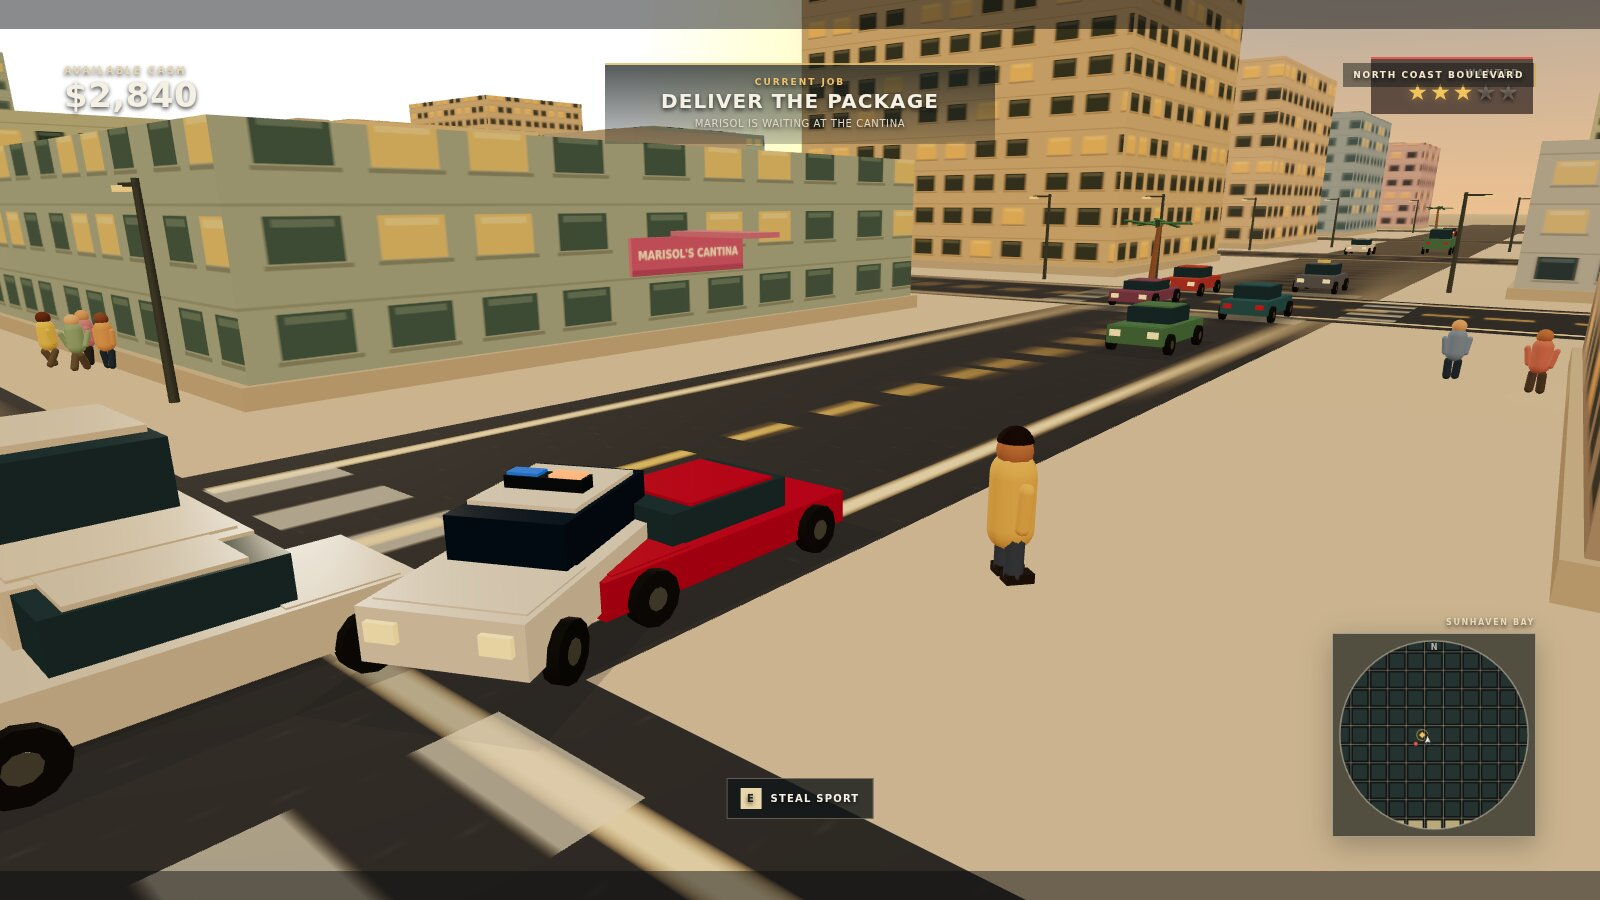
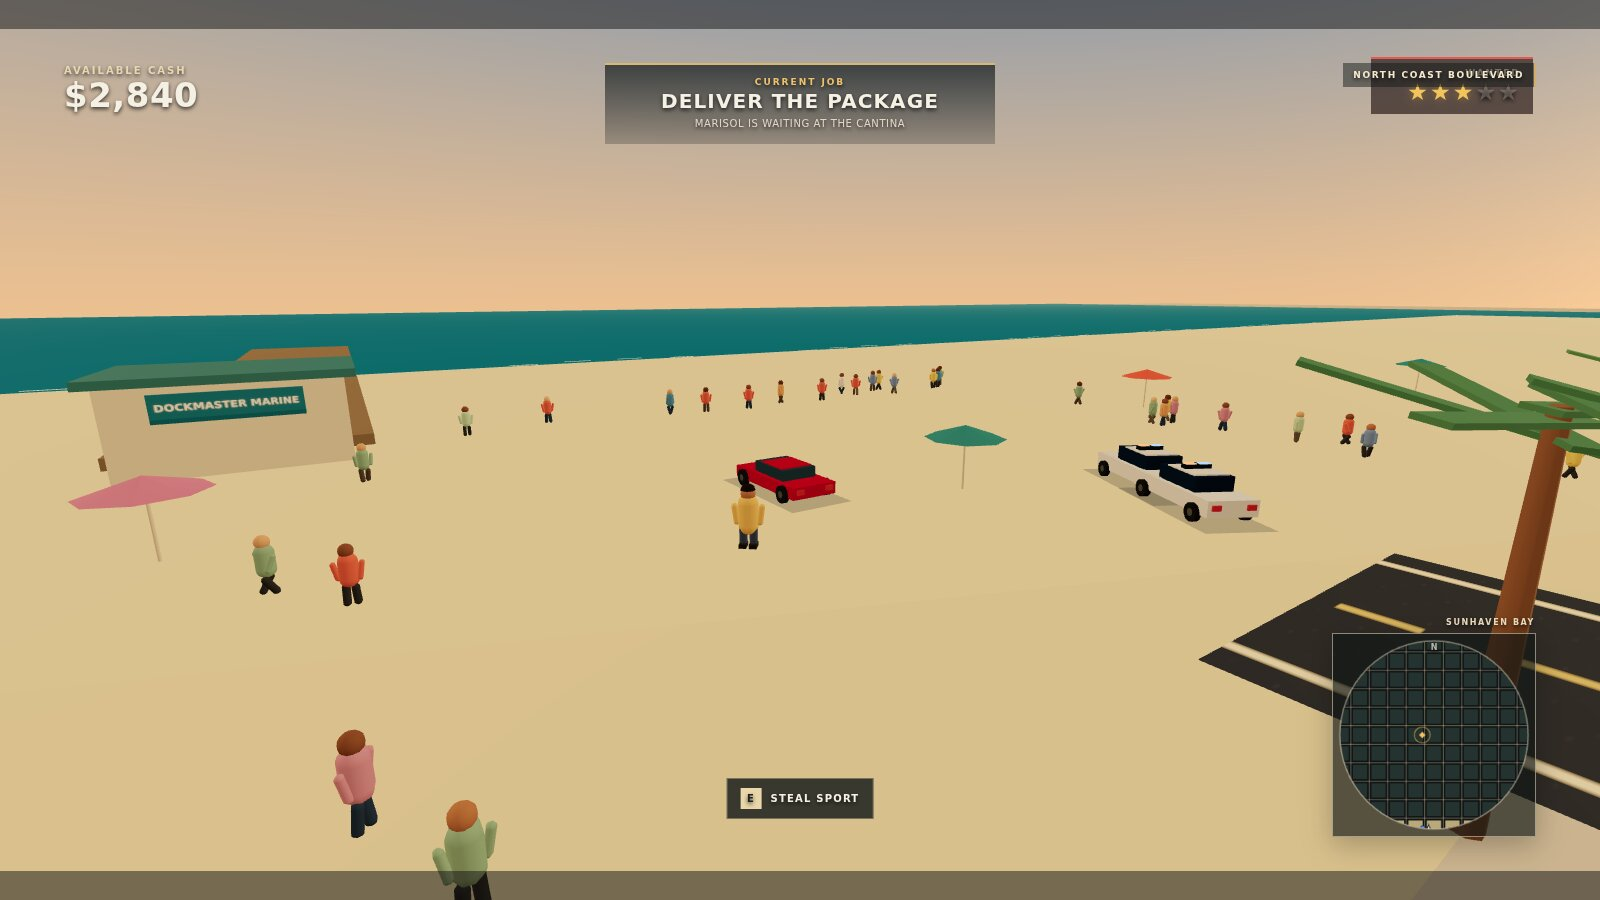
Polish: palms, glass towers, street props, richer shot framing
Palm-lined boulevards + beach edge, taller glass towers, rooftop
details, benches/planters/traffic poles, glowing cantina sign,
police sirens flash in chase scene, recaptured screenshots.

diff --git a/game/src/city-generator.js b/game/src/city-generator.js
@@ -16,22 +16,35 @@ function canvasTexture(width, height, draw) {
 
 function makeFacadeVariant(rng, style) {
   const lit = [];
+  const tower = style === 'tower';
+  const wallColor = tower ? '#b9cfd6' : style === 'glass' ? '#c7d0d2' : '#e4ddd2';
+  const windowPalettes = tower
+    ? [['#5d8798', '#8db6c4'], ['#527a8c', '#a5cfdb'], ['#648ea0', '#9bc4d2']]
+    : style === 'glass'
+      ? [['#698289', '#93b0b5'], ['#5f7d86', '#8aa9ae']]
+      : [['#4f626b', '#657b84'], ['#5a6b70', '#71858a'], ['#4a5d66', '#667d86'], ['#5e6d6c', '#7a8e8b']];
+  const glassPalette = pick(rng, windowPalettes);
+  const litPalette = tower
+    ? ['#d7f2ff', '#bfe6f7', '#ecf9ff']
+    : ['#f8d99e', '#ffe3ad', '#f4c987', '#fff0c8'];
+  const litColor = pick(rng, litPalette);
+  const trimColor = tower ? 'rgba(44,78,92,0.24)' : 'rgba(90,74,58,0.16)';
   const map = canvasTexture(128, 256, (ctx) => {
-    ctx.fillStyle = style === 'glass' ? '#c7d0d2' : '#e4ddd2';
+    ctx.fillStyle = wallColor;
     ctx.fillRect(0, 0, 128, 256);
-    ctx.fillStyle = 'rgba(90,74,58,0.16)';
+    ctx.fillStyle = trimColor;
     for (let y = 0; y < 256; y += 64) ctx.fillRect(0, y, 128, 2);
     for (let row = 0; row < 4; row += 1) {
       for (let col = 0; col < 4; col += 1) {
         const x = 9 + col * 30;
         const y = 12 + row * 62;
-        const isLit = rng() < 0.2;
-        if (isLit) lit.push([x, y]);
-        ctx.fillStyle = isLit ? '#f8d99e' : style === 'glass' ? '#698289' : '#4f626b';
+        const isLit = rng() < (tower ? 0.3 : 0.2);
+        if (isLit) lit.push([x, y, litColor]);
+        ctx.fillStyle = isLit ? litColor : glassPalette[(row + col) % glassPalette.length];
         ctx.fillRect(x, y, 20, 30);
-        ctx.fillStyle = isLit ? '#fff0c8' : 'rgba(220,235,238,0.28)';
+        ctx.fillStyle = isLit ? '#fffaf0' : tower ? 'rgba(190,235,245,0.32)' : 'rgba(220,235,238,0.28)';
         ctx.fillRect(x + 2, y + 2, 16, 5);
-        ctx.fillStyle = 'rgba(50,42,34,0.20)';
+        ctx.fillStyle = tower ? 'rgba(32,62,76,0.28)' : 'rgba(50,42,34,0.20)';
         ctx.fillRect(x - 1, y + 31, 23, 3);
       }
     }
@@ -39,8 +52,8 @@ function makeFacadeVariant(rng, style) {
   const emissive = canvasTexture(128, 256, (ctx) => {
     ctx.fillStyle = '#000';
     ctx.fillRect(0, 0, 128, 256);
-    for (const [x, y] of lit) {
-      ctx.fillStyle = '#d99a4c';
+    for (const [x, y, color] of lit) {
+      ctx.fillStyle = color;
       ctx.fillRect(x, y, 20, 30);
     }
   });
@@ -99,23 +112,114 @@ function makePalm(scene, x, z, scale, rng) {
   const group = new THREE.Group();
   group.position.set(x, 0, z);
   const trunkMaterial = new THREE.MeshStandardMaterial({ color: '#8c6546', roughness: 0.94 });
-  const leafMaterial = new THREE.MeshStandardMaterial({ color: pick(rng, ['#43785e', '#568867', '#386c59', '#6b9369']), roughness: 0.9 });
-  const trunk = new THREE.Mesh(new THREE.CylinderGeometry(0.16 * scale, 0.26 * scale, 4.4 * scale, 7), trunkMaterial);
-  trunk.position.y = 2.2 * scale;
+  const leafMaterial = new THREE.MeshStandardMaterial({ color: pick(rng, ['#56865d', '#65955f', '#477650', '#7b9b62']), roughness: 0.9, side: THREE.DoubleSide });
+  const trunk = new THREE.Mesh(new THREE.CylinderGeometry(0.12 * scale, 0.22 * scale, 6.2 * scale, 7), trunkMaterial);
+  trunk.position.y = 3.1 * scale;
   trunk.rotation.z = rand(rng, -0.1, 0.1);
   trunk.castShadow = true;
   group.add(trunk);
-  for (let i = 0; i < 5; i += 1) {
-    const angle = i * Math.PI * 2 / 5 + 0.3;
-    const leaf = new THREE.Mesh(new THREE.BoxGeometry(0.3 * scale, 0.1 * scale, 2.7 * scale), leafMaterial);
-    leaf.position.set(Math.sin(angle) * 1.0 * scale, 4.3 * scale, Math.cos(angle) * 1.0 * scale);
+  const frondCount = 5 + Math.floor(rng() * 3);
+  for (let i = 0; i < frondCount; i += 1) {
+    const angle = i * Math.PI * 2 / frondCount + 0.3;
+    const length = rand(rng, 2.8, 3.5) * scale;
+    const leaf = new THREE.Mesh(new THREE.BoxGeometry(0.42 * scale, 0.08 * scale, length), leafMaterial);
+    leaf.position.set(Math.sin(angle) * 1.05 * scale, 6.05 * scale, Math.cos(angle) * 1.05 * scale);
     leaf.rotation.y = angle;
-    leaf.rotation.x = -0.24;
+    leaf.rotation.x = -0.3;
+    leaf.rotation.z = Math.sin(angle) * 0.14;
     leaf.castShadow = false;
     group.add(leaf);
   }
   scene.add(group);
   return group;
+}
+
+function makePlanter(scene, x, z, length = 3.2) {
+  const group = new THREE.Group();
+  group.position.set(x, 0, z);
+  const stone = new THREE.MeshStandardMaterial({ color: '#b8a991', roughness: 0.9 });
+  const soil = new THREE.MeshStandardMaterial({ color: '#554b3b', roughness: 1 });
+  const foliage = new THREE.MeshStandardMaterial({ color: '#477353', roughness: 0.94 });
+  const base = new THREE.Mesh(new THREE.BoxGeometry(length, 0.48, 1.15), stone);
+  base.position.y = 0.24;
+  group.add(base);
+  const dirt = new THREE.Mesh(new THREE.BoxGeometry(length - 0.18, 0.12, 0.94), soil);
+  dirt.position.y = 0.52;
+  group.add(dirt);
+  for (let i = 0; i < 4; i += 1) {
+    const shrub = new THREE.Mesh(new THREE.SphereGeometry(0.42, 7, 5), foliage);
+    shrub.position.set((i - 1.5) * length / 4, 0.86, 0);
+    group.add(shrub);
+  }
+  scene.add(group);
+  return group;
+}
+
+function makeBench(scene, x, z, yaw = 0) {
+  const group = new THREE.Group();
+  group.position.set(x, 0, z);
+  group.rotation.y = yaw;
+  const wood = new THREE.MeshStandardMaterial({ color: '#987052', roughness: 0.88 });
+  const metal = new THREE.MeshStandardMaterial({ color: '#565e5a', roughness: 0.55, metalness: 0.32 });
+  const seat = new THREE.Mesh(new THREE.BoxGeometry(2.4, 0.14, 0.62), wood);
+  seat.position.y = 0.58;
+  group.add(seat);
+  const back = new THREE.Mesh(new THREE.BoxGeometry(2.4, 0.58, 0.12), wood);
+  back.position.set(0, 0.95, 0.27);
+  group.add(back);
+  for (const xOffset of [-0.85, 0.85]) {
+    const leg = new THREE.Mesh(new THREE.BoxGeometry(0.12, 0.62, 0.58), metal);
+    leg.position.set(xOffset, 0.3, 0);
+    group.add(leg);
+  }
+  scene.add(group);
+}
+
+function makeStreetProp(scene, kind, x, z, yaw = 0) {
+  const group = new THREE.Group();
+  group.position.set(x, 0, z);
+  group.rotation.y = yaw;
+  const poleMaterial = new THREE.MeshStandardMaterial({ color: '#59635f', roughness: 0.5, metalness: 0.25 });
+  if (kind === 'hydrant') {
+    const red = new THREE.MeshStandardMaterial({ color: '#bf493e', roughness: 0.62 });
+    const body = new THREE.Mesh(new THREE.CylinderGeometry(0.28, 0.32, 0.78, 8), red);
+    body.position.y = 0.4;
+    group.add(body);
+    const cap = new THREE.Mesh(new THREE.CylinderGeometry(0.2, 0.26, 0.18, 8), red);
+    cap.position.y = 0.86;
+    group.add(cap);
+    for (const side of [-1, 1]) {
+      const nozzle = new THREE.Mesh(new THREE.CylinderGeometry(0.12, 0.14, 0.2, 8), red);
+      nozzle.rotation.z = Math.PI / 2;
+      nozzle.position.set(side * 0.32, 0.52, 0);
+      group.add(nozzle);
+    }
+  } else if (kind === 'bus-stop') {
+    const post = new THREE.Mesh(new THREE.CylinderGeometry(0.055, 0.07, 3.6, 7), poleMaterial);
+    post.position.y = 1.8;
+    group.add(post);
+    const board = new THREE.Mesh(new THREE.BoxGeometry(0.9, 1.25, 0.12), new THREE.MeshStandardMaterial({ color: '#267d83', emissive: '#12464b', emissiveIntensity: 0.18, roughness: 0.6 }));
+    board.position.set(0, 3.05, 0);
+    group.add(board);
+    const stripe = new THREE.Mesh(new THREE.BoxGeometry(0.58, 0.08, 0.14), new THREE.MeshStandardMaterial({ color: '#f2d495', roughness: 0.6 }));
+    stripe.position.set(0, 3.18, 0);
+    group.add(stripe);
+  } else {
+    const post = new THREE.Mesh(new THREE.CylinderGeometry(0.11, 0.15, 4.8, 8), poleMaterial);
+    post.position.y = 2.4;
+    group.add(post);
+    const arm = new THREE.Mesh(new THREE.BoxGeometry(1.65, 0.12, 0.12), poleMaterial);
+    arm.position.set(0.72, 4.54, 0);
+    group.add(arm);
+    for (let i = 0; i < 3; i += 1) {
+      const material = new THREE.MeshStandardMaterial({ color: ['#d94c42', '#e7c354', '#4e9961'][i], emissive: ['#e6382d', '#dfa821', '#39874c'][i], emissiveIntensity: 0.48, roughness: 0.35 });
+      nightMaterials.push(material);
+      const lamp = new THREE.Mesh(new THREE.SphereGeometry(0.13, 8, 6), material);
+      lamp.position.set(1.42, 4.5 - i * 0.34, 0.08);
+      group.add(lamp);
+    }
+  }
+  scene.add(group);
 }
 
 function makeStreetlight(scene, x, z, flip) {
@@ -159,7 +263,7 @@ export function buildCity(scene, seed = 7) {
   const parkedCars = [];
   const landmarks = {};
   const blockData = new Map();
-  const facadeVariants = [makeFacadeVariant(rng, 'plain'), makeFacadeVariant(rng, 'plain'), makeFacadeVariant(rng, 'glass'), makeFacadeVariant(rng, 'plain'), makeFacadeVariant(rng, 'glass')];
+  const facadeVariants = [makeFacadeVariant(rng, 'plain'), makeFacadeVariant(rng, 'plain'), makeFacadeVariant(rng, 'glass'), makeFacadeVariant(rng, 'plain'), makeFacadeVariant(rng, 'glass'), makeFacadeVariant(rng, 'tower')];
   const grounds = new THREE.Mesh(new THREE.PlaneGeometry(1100, 1100), new THREE.MeshStandardMaterial({ color: '#b5a98e', roughness: 1 }));
   grounds.rotation.x = -Math.PI / 2;
   grounds.position.y = -0.16;
@@ -205,15 +309,16 @@ export function buildCity(scene, seed = 7) {
       const w = rand(rng, 22, 31);
       const d = rand(rng, 22, 31);
       const store = STORE_SIGNS.find((entry) => entry.block[0] === ix && entry.block[1] === iz);
-      const h = store ? rand(rng, 6.5, 9.5) : nearBeach ? rand(rng, 8, 17) : rand(rng, 9, 27);
-      const variant = facadeVariants[Math.floor(rng() * facadeVariants.length)];
+      const towerBlock = (ix === 2 && iz === 3) || (ix === 6 && iz === 5);
+      const h = towerBlock ? rand(rng, 54, 66) : store ? rand(rng, 6.5, 9.5) : nearBeach ? rand(rng, 8, 17) : rand(rng, 9, 27);
+      const variant = towerBlock ? facadeVariants[5] : facadeVariants[Math.floor(rng() * (facadeVariants.length - 1))];
       const map = variant.map.clone();
       map.needsUpdate = true;
       map.repeat.set(Math.max(0.8, w / 11), Math.max(0.7, h / 10));
       const emissive = variant.emissive.clone();
       emissive.needsUpdate = true;
       emissive.repeat.copy(map.repeat);
-      const sideMaterial = new THREE.MeshStandardMaterial({ map, color: pick(rng, COLORS.pastels), roughness: 0.84, emissive: '#f6d295', emissiveMap: emissive, emissiveIntensity: 0.17 });
+      const sideMaterial = new THREE.MeshStandardMaterial({ map, color: towerBlock ? '#b7d0da' : pick(rng, COLORS.pastels), roughness: towerBlock ? 0.38 : 0.84, metalness: towerBlock ? 0.22 : 0, emissive: towerBlock ? '#62b3c9' : '#f6d295', emissiveMap: emissive, emissiveIntensity: towerBlock ? 0.24 : 0.17 });
       nightMaterials.push(sideMaterial);
       const roofMaterial = new THREE.MeshStandardMaterial({ color: '#cdbca0', roughness: 0.94 });
       const building = new THREE.Mesh(new THREE.BoxGeometry(w, h, d), [sideMaterial, sideMaterial, roofMaterial, roofMaterial, sideMaterial, sideMaterial]);
@@ -226,10 +331,26 @@ export function buildCity(scene, seed = 7) {
       plinth.position.set(cx, 0.28, cz);
       plinth.receiveShadow = true;
       scene.add(plinth);
-      if (rng() < 0.55) {
+      if (!towerBlock && rng() < 0.55) {
         const ac = new THREE.Mesh(new THREE.BoxGeometry(w * 0.22, 0.9, d * 0.22), new THREE.MeshStandardMaterial({ color: '#b9b1a0', roughness: 0.9 }));
         ac.position.set(cx + w * 0.2, h + 0.5, cz - d * 0.18);
         scene.add(ac);
+      }
+      if (towerBlock) {
+        const crown = new THREE.Mesh(new THREE.BoxGeometry(w * 0.52, 2.2, d * 0.52), new THREE.MeshStandardMaterial({ color: '#a9c3cb', roughness: 0.42, metalness: 0.2 }));
+        crown.position.set(cx, h + 1.1, cz);
+        scene.add(crown);
+        const beacon = new THREE.Mesh(new THREE.SphereGeometry(0.34, 8, 6), new THREE.MeshStandardMaterial({ color: '#ffe2a0', emissive: '#ed9e49', emissiveIntensity: 0.75 }));
+        beacon.position.set(cx, h + 2.55, cz);
+        scene.add(beacon);
+      } else if (rng() < 0.48) {
+        const tankMaterial = new THREE.MeshStandardMaterial({ color: '#aab7b4', roughness: 0.76, metalness: 0.12 });
+        const tank = new THREE.Mesh(new THREE.BoxGeometry(w * 0.23, 1.55, d * 0.22), tankMaterial);
+        tank.position.set(cx + w * 0.2, h + 0.78, cz - d * 0.17);
+        scene.add(tank);
+        const antenna = new THREE.Mesh(new THREE.CylinderGeometry(0.035, 0.055, 2.2, 6), new THREE.MeshStandardMaterial({ color: '#68706c', metalness: 0.42, roughness: 0.5 }));
+        antenna.position.set(cx - w * 0.22, h + 1.1, cz + d * 0.21);
+        scene.add(antenna);
       }
       colliders.push({ minX: cx - w / 2 - 0.4, maxX: cx + w / 2 + 0.4, minZ: cz - d / 2 - 0.4, maxZ: cz + d / 2 + 0.4 });
       blockData.set(`${ix},${iz}`, { cx, cz, w, d, h });
@@ -244,8 +365,12 @@ export function buildCity(scene, seed = 7) {
         if (facing === '-z') { sz = cz - d / 2 - 0.15; rot = Math.PI; lz = cz - d / 2 - 3.4; }
         if (facing === '+x') { sx = cx + w / 2 + 0.15; rot = Math.PI / 2; lx = cx + w / 2 + 3.4; }
         if (facing === '-x') { sx = cx - w / 2 - 0.15; rot = -Math.PI / 2; lx = cx - w / 2 - 3.4; }
-        makeSign(scene, store.name, pick(rng, COLORS.signs), sx, 3.2, sz, rot);
-        const awning = new THREE.Mesh(new THREE.BoxGeometry(6.2, 0.18, 1.5), new THREE.MeshStandardMaterial({ color: pick(rng, COLORS.awnings), roughness: 0.82 }));
+        const sign = makeSign(scene, store.name, pick(rng, COLORS.signs), sx, 3.2, sz, rot);
+        if (store.name === "Marisol's Cantina") {
+          sign.material.emissive.set('#ff4fa3');
+          sign.material.emissiveIntensity = 0.85;
+        }
+        const awning = new THREE.Mesh(new THREE.BoxGeometry(6.2, 0.18, 1.5), new THREE.MeshStandardMaterial({ color: store.name === "Marisol's Cantina" ? '#b64882' : pick(rng, COLORS.awnings), roughness: 0.82 }));
         awning.position.set(sx + (facing.includes('x') ? Math.sign(sx - cx) * 0.6 : 0), 3.95, sz + (facing.includes('z') ? Math.sign(sz - cz) * 0.6 : 0));
         scene.add(awning);
         if (LANDMARK_POSITIONS[store.name]) landmarks[store.name] = { x: lx + rand(rng, -0.8, 0.8), z: lz + rand(rng, -0.8, 0.8), face: store.side };
@@ -265,6 +390,9 @@ export function buildCity(scene, seed = 7) {
   for (const x of [-210, -160, -110, 110, 160, 210]) {
     for (const z of [-26, 26]) makePalm(scene, x, z + (z > 0 ? 10 : -10), rand(rng, 0.8, 1.05), rng);
   }
+  for (const x of [-86, -70, -34, -18, 18, 34, 70, 86]) {
+    for (const z of [-170, -110, -50, 10, 70, 130, 190, 250]) makePalm(scene, x, z, rand(rng, 0.9, 1.12), rng);
+  }
   const sand = new THREE.Mesh(new THREE.PlaneGeometry(700, 94), new THREE.MeshStandardMaterial({ color: COLORS.sand, roughness: 0.98 }));
   sand.rotation.x = -Math.PI / 2;
   sand.position.set(0, -0.03, CITY.extent + 45);
@@ -282,6 +410,7 @@ export function buildCity(scene, seed = 7) {
   for (let i = 0; i < 7; i += 1) {
     makeUmbrella(scene, -80 + i * 27, CITY.extent + 28 + (i % 2) * 8, pick(rng, COLORS.awnings));
   }
+  for (const x of [-115, -85, -55, -25, 25, 55, 85, 115]) makePalm(scene, x, CITY.extent + 8, rand(rng, 0.8, 1.02), rng);
   const pier = new THREE.Mesh(new THREE.BoxGeometry(11, 0.6, 76), new THREE.MeshStandardMaterial({ color: '#8b7456', roughness: 0.92 }));
   pier.position.set(0, 0.35, CITY.extent + 90);
   pier.castShadow = true;
@@ -300,8 +429,11 @@ export function buildCity(scene, seed = 7) {
   const hutRoof = new THREE.Mesh(new THREE.BoxGeometry(10, 0.4, 8), new THREE.MeshStandardMaterial({ color: '#477f7b', roughness: 0.8 }));
   hutRoof.position.set(0, 4.4, CITY.extent + 52);
   scene.add(hutRoof);
+  for (const [x, z] of [[-93, -26], [-93, 26], [93, -26], [93, 26], [-26, 93], [26, 93]]) makePlanter(scene, x, z);
   makeSign(scene, 'Dockmaster Marine', '#2f6f74', 0, 3.2, CITY.extent + 48.4, Math.PI);
   landmarks['Dockmaster Marine'] = { x: 0, z: CITY.extent + 43, face: '-z' };
+  for (const [x, z, yaw] of [[-94, 5, 0], [94, -6, Math.PI], [-6, 94, Math.PI / 2], [8, 94, -Math.PI / 2]]) makeBench(scene, x, z, yaw);
+  for (const [x, z, kind, yaw] of [[-34, 26, 'hydrant', 0], [34, -26, 'hydrant', Math.PI], [-78, 25, 'bus-stop', 0], [26, -78, 'traffic', Math.PI / 2], [-26, 78, 'traffic', -Math.PI / 2], [78, 26, 'traffic', Math.PI]]) makeStreetProp(scene, kind, x, z, yaw);
   const parkedSpots = [
     ['sedan', 23.5, 8, 0], ['taxi', -23.5, -36, Math.PI], ['van', 28, -104, 0], ['sport', -28, 72, Math.PI],
     ['sedan', -80, 23.5, Math.PI / 2], ['taxi', 80, -23.5, -Math.PI / 2], ['muscle', -130, 23.5, Math.PI / 2],
@@ -314,7 +446,10 @@ export function buildCity(scene, seed = 7) {
     parkedCars.push(car);
   }
   function setNightLights(on) {
-    for (const material of nightMaterials) material.emissiveIntensity = on ? 1.25 : material.map ? 0.17 : 0.5;
+    for (const material of nightMaterials) {
+      if (material.emissive.getHex() === 0x62b3c9) material.emissiveIntensity = on ? 0.72 : 0.24;
+      else material.emissiveIntensity = on ? 1.25 : material.map ? 0.17 : 0.5;
+    }
   }
   return { buildings, colliders, parkedCars, landmarks, blockData, setNightLights, seed };
 }

diff --git a/game/src/shot-scenes.js b/game/src/shot-scenes.js
@@ -24,26 +24,28 @@ function stageCover(world, seed) {
   dayNight.setTime(0.73);
   world.city.setNightLights(false);
   world.cash = 2840;
-  wantedSystem.stage(3, -30, 2);
-  const car = drive.spawnCar('sport', -21.5, 17, Math.PI, { parked: true, color: '#bf3033' });
+  wantedSystem.stage(3, -31, 265);
+  const car = drive.spawnCar('sport', -19.5, 272, Math.PI, { parked: true, color: '#bf3033' });
   car.userData.parked = true;
   car.userData.headlights.forEach((mat) => { mat.emissiveIntensity = 0.5; });
-  player.setPosition(-17.8, 14.5);
+  player.setPosition(-15, 267);
   player.object.rotation.y = -0.7;
   player.object.visible = true;
   world.activeCar = null;
   world.nearCar = car;
   world.speed = 0;
-  traffic.layoutAround(-26, 16, 0.9);
+  traffic.layoutAround(-26, 270, 0.9);
   traffic.cars.forEach((item) => { item.wait = 40; });
-  pedestrians.layoutAround(-26, 16, mulberry32(seed + 13));
+  pedestrians.layoutAround(-26, 270, mulberry32(seed + 13));
   missions.marker.visible = false;
   world.mission = { title: 'DELIVER THE PACKAGE', briefing: 'MARISOL IS WAITING AT THE CANTINA', marker: { x: -33, z: 0 } };
-  for (const cop of wantedSystem.cops) {
-    cop.red.material.emissiveIntensity = 3.4;
-    cop.blue.material.emissiveIntensity = 0.12;
+  for (const [index, cop] of wantedSystem.cops.entries()) {
+    cop.car.position.set(-33 + index * 1.6, 0, 264 - index * 2.8);
+    cop.car.rotation.y = Math.PI * 0.84;
+    cop.red.material.emissiveIntensity = 4.2;
+    cop.blue.material.emissiveIntensity = 3.8;
   }
-  place(world.camera, { x: -12.5, y: 5, z: 25.5 }, { x: -21.5, y: 1.2, z: 14.5 }, 52);
+  place(world.camera, { x: -4.5, y: 8.2, z: 248 }, { x: -19, y: 2.2, z: 270 }, 66);
   world.hud.setStars(3);
   world.hud.setCash(world.cash);
   world.hud.setObjective(world.mission);
@@ -73,7 +75,7 @@ function stageCity(world, seed) {
   for (const ped of pedestrians.peds) ped.group.visible = true;
   missions.marker.visible = false;
   world.mission = { title: 'SUNHAVEN BAY', briefing: 'THE WHOLE CITY IS YOURS TODAY', marker: { x: 26, z: 26 } };
-  place(world.camera, { x: 95, y: 108, z: -140 }, { x: 18, y: 2, z: 85 }, 60);
+  place(world.camera, { x: 112, y: 116, z: -125 }, { x: 18, y: 2, z: 108 }, 62);
   world.hud.setStars(0);
   world.hud.setCash(world.cash);
   world.hud.setObjective(world.mission);
@@ -95,12 +97,17 @@ function stageChase(world) {
   car.userData.headlights.forEach((mat) => { mat.emissiveIntensity = 2.6; });
   world.activeCar = car;
   world.speed = 23;
-  wantedSystem.stage(3, 26, -14);
+  wantedSystem.stage(4, 26, -14);
   let flip = false;
   for (const cop of wantedSystem.cops) {
     cop.car.userData.headlights.forEach((mat) => { mat.emissiveIntensity = 2.4; });
     cop.red.material.emissiveIntensity = flip ? 0.1 : 4.2;
     cop.blue.material.emissiveIntensity = flip ? 4.2 : 0.1;
+    if (cop.car.userData.siren) {
+      cop.car.userData.siren.red.material.emissiveIntensity = flip ? 0.1 : 4.2;
+      cop.car.userData.siren.blue.material.emissiveIntensity = flip ? 4.2 : 0.1;
+    }
+    cop.sirenPhase = flip ? Math.PI : 0;
     flip = !flip;
   }
   traffic.layoutAround(26, 10, 0.8);
@@ -177,4 +184,17 @@ export function applyShot(scene, name, world) {
     world.renderer.render(scene, world.camera);
     window.__shotReady = true;
   });
+  if (name === 'chase') {
+    const sirens = world.wantedSystem.cops.map((cop) => cop.car.userData.siren).filter(Boolean);
+    const animateSirens = (time) => {
+      const pulse = Math.sin(time * 0.012) > 0;
+      for (const siren of sirens) {
+        siren.red.material.emissiveIntensity = pulse ? 4.8 : 0.08;
+        siren.blue.material.emissiveIntensity = pulse ? 0.08 : 4.8;
+      }
+      world.renderer.render(scene, world.camera);
+      requestAnimationFrame(animateSirens);
+    };
+    requestAnimationFrame(animateSirens);
+  }
 }
